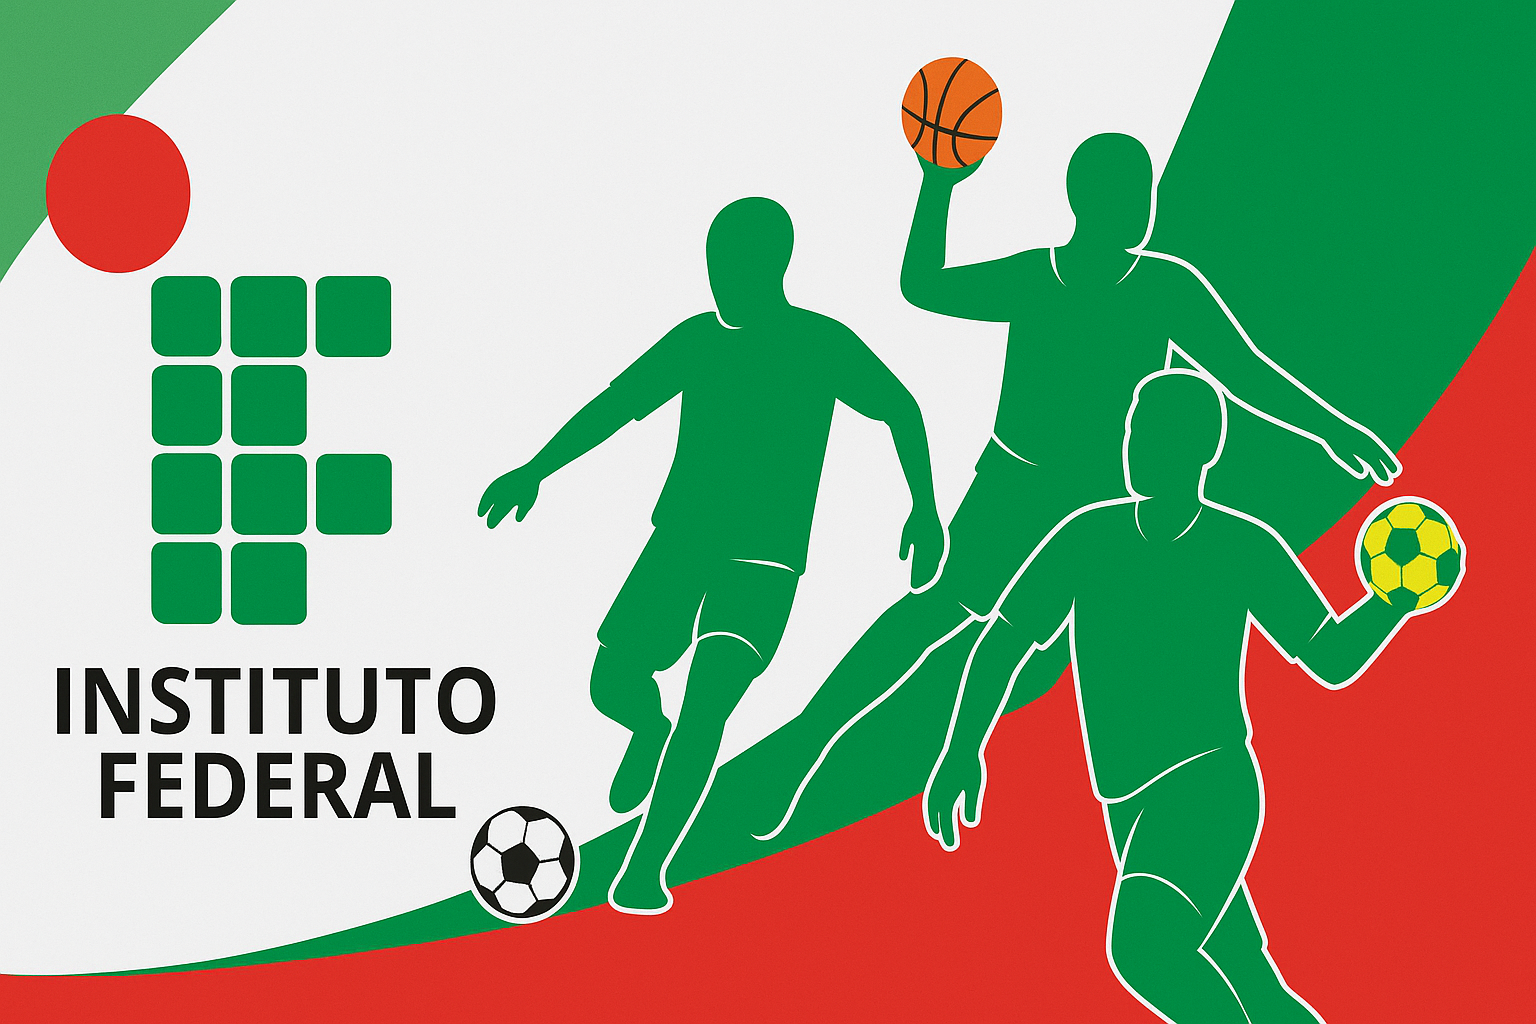
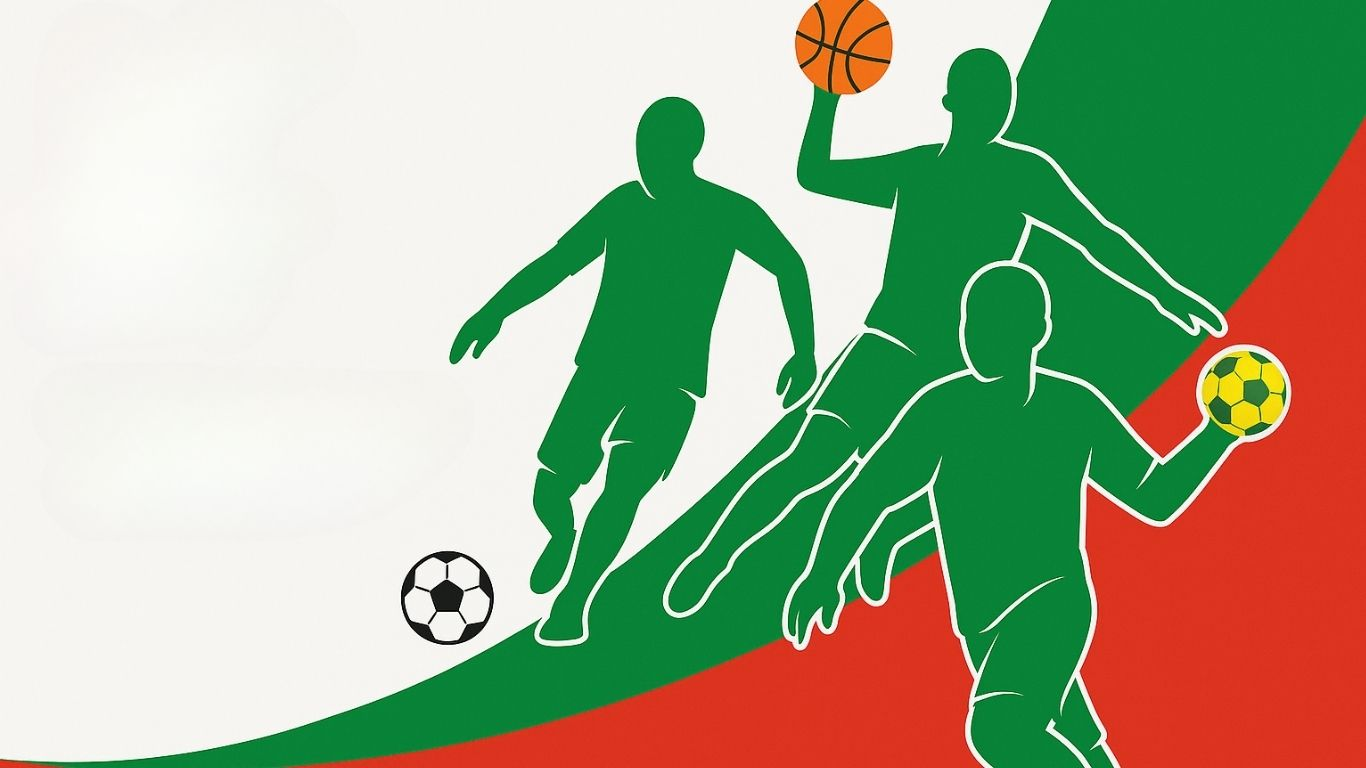
menu criado

Changed region(s): [[0.0, 0.0, 1.0, 1.0]]

diff --git a/style.css b/style.css
@@ -2,14 +2,54 @@
     margin: 0;
     padding: 0;
     box-sizing: border-box;
-  }
+}
 
-  body{
+body {
     height: 100vh;
+    width: 100vw;
     display: flex;
+    flex-direction: column;
     background-image: url("fundo.png");
-    background-size: contain;
+    background-size: cover;        
+    background-repeat: no-repeat;           
     justify-content: center;
+    background-position: center;
     align-items: center;
     font-family: 'Times New Roman';
-  }
+}
+
+.sidebar {
+    position: fixed;
+    top: 0;
+    left: 0;
+    height: 7vh;
+    width: 100vw;
+    background-color: #088238;
+    padding: 10px 0; 
+    box-shadow: 2px 0 5px rgba(0, 0, 0, 0.3);
+    z-index: 1000;
+}
+
+.menu-list {
+    display: flex; 
+    justify-content: space-around; 
+    list-style-type: none; 
+}
+
+.menu-list li {
+    margin: 0 15px; 
+}
+
+.menu-list a {
+    text-decoration: none;
+    color: white;
+    font-weight: bold;
+}
+
+.menu-list a:hover {
+  opacity: 50%;
+  border-radius:1vh;
+    text-decoration: none;
+    background-color: #e2e2e2;
+    color: red;
+}

diff --git a/home.html b/home.html
@@ -5,9 +5,24 @@
     <meta name="viewport" content="width=device-width, initial-scale=1.0">
     <title>Jifal 2025</title>
     <link rel="stylesheet" href="style.css">
-    
 </head>
 <body>
-    
+    <header class="menu">
+        <div class="sidebar">
+            <ul class="menu-list">
+                <li><a href="#" class="item">Início</a></li>
+                <li><a href="#" class="item">Programação</a></li>
+                <li><a href="#" class="item">Modalidades</a></li>
+                <li><a href="#" class="item">Equipes</a></li>
+                <li><a href="#" class="item">Fotos</a></li>
+                <li><a href="#" class="item">Contato</a></li>
+                <li><a href="#" class="item">Histórico</a></li>
+            </ul>
+        </div>
+    </header>
+
+    <div class="conteudo">
+        
+    </div>
 </body>
 </html>
